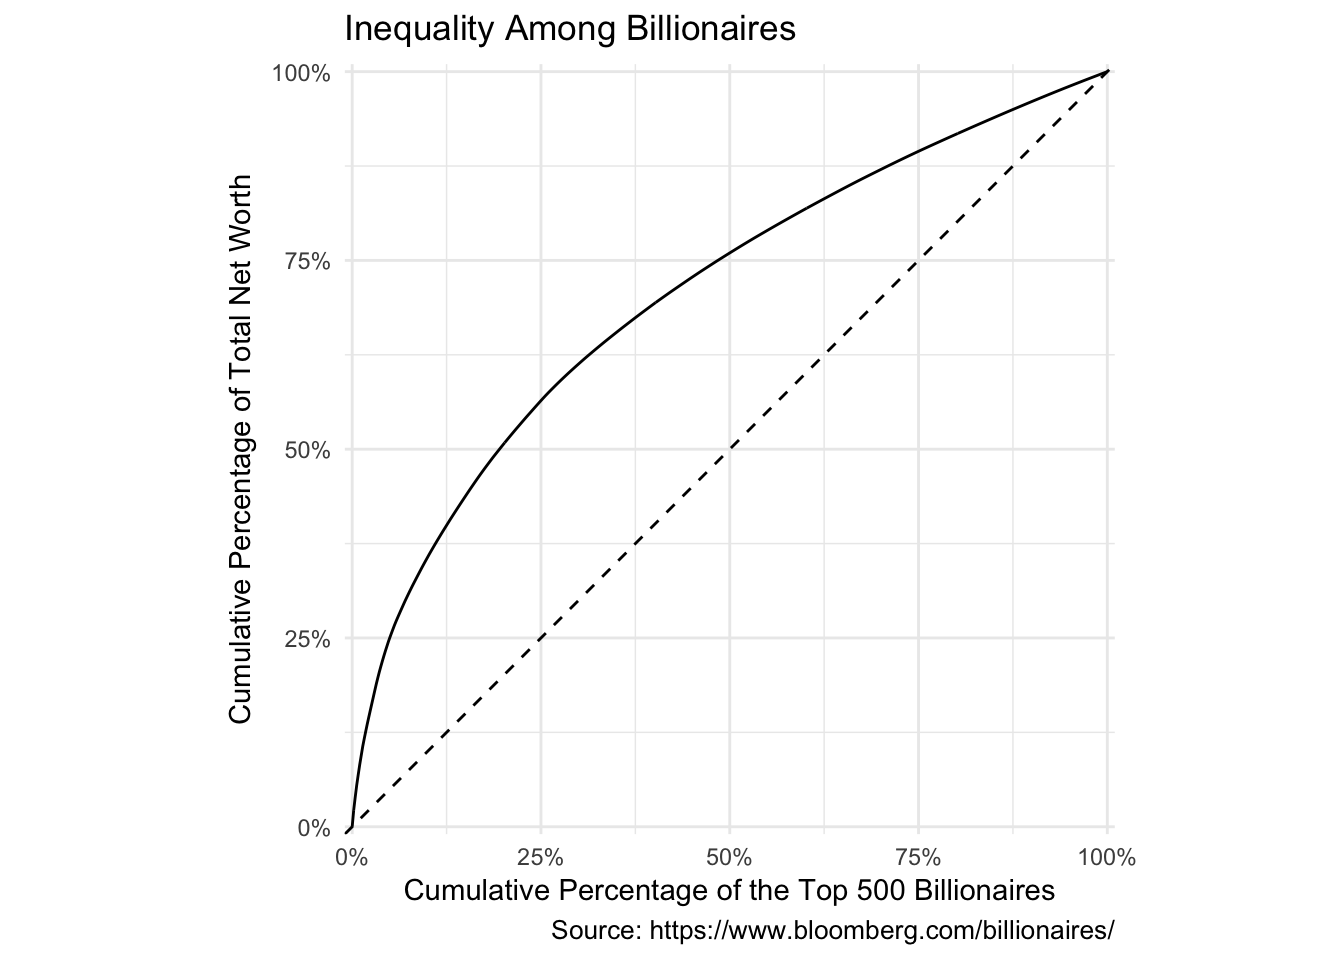
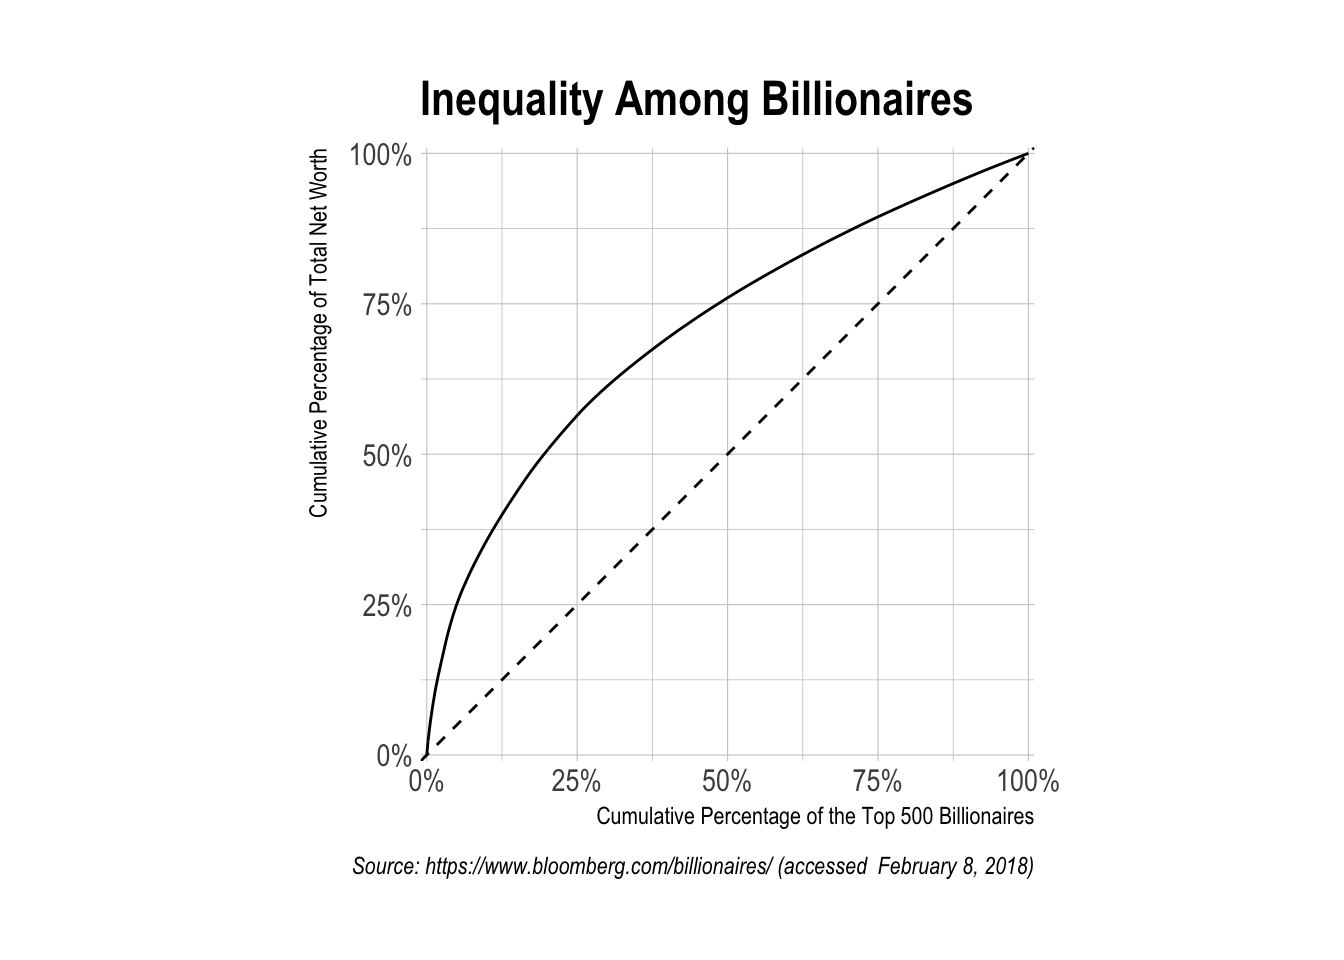
Update site

diff --git a/docs/index.html b/docs/index.html
@@ -5,7 +5,7 @@
 <meta charset="utf-8">
 <meta http-equiv="X-UA-Compatible" content="IE=edge">
 <meta name="viewport" content="width=device-width, initial-scale=1.0">
-<title>Plotting Lorenz Curve with the Blessing of ggplot2 • gglorenz</title>
+<title>Plotting Lorenz Curve with the Blessing of 'ggplot2' • gglorenz</title>
 <!-- jquery --><script src="https://code.jquery.com/jquery-3.1.0.min.js" integrity="sha384-nrOSfDHtoPMzJHjVTdCopGqIqeYETSXhZDFyniQ8ZHcVy08QesyHcnOUpMpqnmWq" crossorigin="anonymous"></script><!-- Bootstrap --><link href="https://maxcdn.bootstrapcdn.com/bootstrap/3.3.7/css/bootstrap.min.css" rel="stylesheet" integrity="sha384-BVYiiSIFeK1dGmJRAkycuHAHRg32OmUcww7on3RYdg4Va+PmSTsz/K68vbdEjh4u" crossorigin="anonymous">
 <script src="https://maxcdn.bootstrapcdn.com/bootstrap/3.3.7/js/bootstrap.min.js" integrity="sha384-Tc5IQib027qvyjSMfHjOMaLkfuWVxZxUPnCJA7l2mCWNIpG9mGCD8wGNIcPD7Txa" crossorigin="anonymous"></script><!-- Font Awesome icons --><link href="https://maxcdn.bootstrapcdn.com/font-awesome/4.6.3/css/font-awesome.min.css" rel="stylesheet" integrity="sha384-T8Gy5hrqNKT+hzMclPo118YTQO6cYprQmhrYwIiQ/3axmI1hQomh7Ud2hPOy8SP1" crossorigin="anonymous">
 <!-- pkgdown --><link href="pkgdown.css" rel="stylesheet">
@@ -86,13 +86,12 @@ devtools<span class="op">::</span><span class="kw"><a href="http://www.rdocument
 <a href="#example" class="anchor"></a>Example</h1>
 <p>Suppose you have a vector with each element representing the amount the stuff a person produced, and you are interested in knowing how much stuff are produced by the top x% of the people, then the <code><a href="http://www.rdocumentation.org/packages/gglorenz/topics/stat_lorenz">gglorenz::stat_lorenz(desc = TRUE)</a></code> would make a graph for you.</p>
 <div class="sourceCode"><pre class="sourceCode r"><code class="sourceCode r"><span class="kw">library</span>(tidyverse)
-<span class="co">#&gt; ── Attaching packages ──────────────────────────────────────── tidyverse 1.2.1 ──</span>
-<span class="co">#&gt; ✔ ggplot2 2.2.1.9000     ✔ purrr   0.2.4     </span>
+<span class="co">#&gt; ── Attaching packages ─────────────────────────────────────── tidyverse 1.2.1 ──</span>
+<span class="co">#&gt; ✔ ggplot2 2.2.1          ✔ purrr   0.2.4     </span>
 <span class="co">#&gt; ✔ tibble  1.4.2          ✔ dplyr   0.7.4     </span>
 <span class="co">#&gt; ✔ tidyr   0.7.2          ✔ stringr 1.2.0     </span>
 <span class="co">#&gt; ✔ readr   1.1.1.9000     ✔ forcats 0.2.0</span>
-<span class="co">#&gt; Warning: package 'tibble' was built under R version 3.4.3</span>
-<span class="co">#&gt; ── Conflicts ─────────────────────────────────────────── tidyverse_conflicts() ──</span>
+<span class="co">#&gt; ── Conflicts ────────────────────────────────────────── tidyverse_conflicts() ──</span>
 <span class="co">#&gt; ✖ dplyr::filter() masks stats::filter()</span>
 <span class="co">#&gt; ✖ dplyr::lag()    masks stats::lag()</span>
 <span class="kw">library</span>(gglorenz)
@@ -121,10 +120,11 @@ billionaires <span class="op">%&gt;%</span>
 <span class="st">    </span><span class="kw">theme_minimal</span>() <span class="op">+</span>
 <span class="st">    </span>hrbrthemes<span class="op">::</span><span class="kw"><a href="http://www.rdocumentation.org/packages/hrbrthemes/topics/scale_x_percent">scale_x_percent</a></span>() <span class="op">+</span>
 <span class="st">    </span>hrbrthemes<span class="op">::</span><span class="kw"><a href="http://www.rdocumentation.org/packages/hrbrthemes/topics/scale_x_percent">scale_y_percent</a></span>() <span class="op">+</span>
+<span class="st">    </span>hrbrthemes<span class="op">::</span><span class="kw"><a href="http://www.rdocumentation.org/packages/hrbrthemes/topics/theme_ipsum">theme_ipsum</a></span>() <span class="op">+</span>
 <span class="st">    </span><span class="kw">labs</span>(<span class="dt">x =</span> <span class="st">"Cumulative Percentage of the Top 500 Billionaires"</span>,
          <span class="dt">y =</span> <span class="st">"Cumulative Percentage of Total Net Worth"</span>,
          <span class="dt">title =</span> <span class="st">"Inequality Among Billionaires"</span>,
-         <span class="dt">caption =</span> <span class="st">"Source: https://www.bloomberg.com/billionaires/"</span>)</code></pre></div>
+         <span class="dt">caption =</span> <span class="st">"Source: https://www.bloomberg.com/billionaires/ (accessed  February 8, 2018)"</span>)</code></pre></div>
 <p><img src="reference/figures/README-unnamed-chunk-1-1.png" width="100%"></p>
 <div class="sourceCode"><pre class="sourceCode r"><code class="sourceCode r">
 billionaires <span class="op">%&gt;%</span>
@@ -136,10 +136,11 @@ billionaires <span class="op">%&gt;%</span>
 <span class="st">    </span><span class="kw">theme_minimal</span>() <span class="op">+</span>
 <span class="st">    </span>hrbrthemes<span class="op">::</span><span class="kw"><a href="http://www.rdocumentation.org/packages/hrbrthemes/topics/scale_x_percent">scale_x_percent</a></span>() <span class="op">+</span>
 <span class="st">    </span>hrbrthemes<span class="op">::</span><span class="kw"><a href="http://www.rdocumentation.org/packages/hrbrthemes/topics/scale_x_percent">scale_y_percent</a></span>() <span class="op">+</span>
+<span class="st">    </span>hrbrthemes<span class="op">::</span><span class="kw"><a href="http://www.rdocumentation.org/packages/hrbrthemes/topics/theme_ipsum">theme_ipsum</a></span>() <span class="op">+</span>
 <span class="st">    </span><span class="kw">labs</span>(<span class="dt">x =</span> <span class="st">"Cumulative Percentage of Billionaires"</span>,
          <span class="dt">y =</span> <span class="st">"Cumulative Percentage of Total Net Worth"</span>,
          <span class="dt">title =</span> <span class="st">"Real Estate is a Relatively Equal Field"</span>,
-         <span class="dt">caption =</span> <span class="st">"Source: https://www.bloomberg.com/billionaires/"</span>)</code></pre></div>
+         <span class="dt">caption =</span> <span class="st">"Source: https://www.bloomberg.com/billionaires/ (accessed  February 8, 2018)"</span>)</code></pre></div>
 <p><img src="reference/figures/README-unnamed-chunk-1-2.png" width="100%"></p>
 </div>
 </div>

diff --git a/docs/reference/stat_lorenz.html b/docs/reference/stat_lorenz.html
@@ -99,23 +99,23 @@
     <colgroup><col class="name" /><col class="desc" /></colgroup>
     <tr>
       <th>mapping</th>
-      <td><p>Set of aesthetic mappings created by <code>aes()</code> or
-<code>aes_()</code>. If specified and <code>inherit.aes = TRUE</code> (the
+      <td><p>Set of aesthetic mappings created by <code>aes</code> or
+<code>aes_</code>. If specified and <code>inherit.aes = TRUE</code> (the
 default), it is combined with the default mapping at the top level of the
 plot. You must supply <code>mapping</code> if there is no plot mapping.</p></td>
     </tr>
     <tr>
       <th>data</th>
       <td><p>The data to be displayed in this layer. There are three
-options:</p>
+   options:</p>
 <p>If <code>NULL</code>, the default, the data is inherited from the plot
-data as specified in the call to <code>ggplot()</code>.</p>
+   data as specified in the call to <code>ggplot</code>.</p>
 <p>A <code>data.frame</code>, or other object, will override the plot
-data. All objects will be fortified to produce a data frame. See
-<code>fortify()</code> for which variables will be created.</p>
+   data. All objects will be fortified to produce a data frame. See
+   <code>fortify</code> for which variables will be created.</p>
 <p>A <code>function</code> will be called with a single argument,
-the plot data. The return value must be a <code>data.frame.</code>, and
-will be used as the layer data.</p></td>
+   the plot data. The return value must be a <code>data.frame.</code>, and
+   will be used as the layer data.</p></td>
     </tr>
     <tr>
       <th>geom</th>
@@ -128,7 +128,7 @@ a call to a position adjustment function.</p></td>
     </tr>
     <tr>
       <th>...</th>
-      <td><p>other arguments passed on to <code>layer()</code>. These are
+      <td><p>other arguments passed on to <code>layer</code>. These are
 often aesthetics, used to set an aesthetic to a fixed value, like
 <code>color = "red"</code> or <code>size = 3</code>. They may also be parameters
 to the paired geom/stat.</p></td>
@@ -143,16 +143,14 @@ order.</p></td>
       <th>show.legend</th>
       <td><p>logical. Should this layer be included in the legends?
 <code>NA</code>, the default, includes if any aesthetics are mapped.
-<code>FALSE</code> never includes, and <code>TRUE</code> always includes.
-It can also be a named logical vector to finely select the aesthetics to
-display.</p></td>
+<code>FALSE</code> never includes, and <code>TRUE</code> always includes.</p></td>
     </tr>
     <tr>
       <th>inherit.aes</th>
       <td><p>If <code>FALSE</code>, overrides the default aesthetics,
 rather than combining with them. This is most useful for helper functions
 that define both data and aesthetics and shouldn't inherit behaviour from
-the default plot specification, e.g. <code>borders()</code>.</p></td>
+the default plot specification, e.g. <code>borders</code>.</p></td>
     </tr>
     </table>
     
@@ -165,12 +163,12 @@ the default plot specification, e.g. <code>borders()</code>.</p></td>
     <pre class="examples"><div class='input'><span class='fu'>library</span>(<span class='no'>gglorenz</span>)
 
 <span class='fu'>ggplot</span>(<span class='no'>billionaires</span>, <span class='fu'>aes</span>(<span class='no'>TNW</span>)) +
-    <span class='fu'>stat_lorenz</span>()</div><div class='img'><img src='stat_lorenz-1.png' alt='' width='700' height='432.632880098887' /></div><div class='input'>
+    <span class='fu'>stat_lorenz</span>()</div><div class='img'><img src='stat_lorenz-5.png' alt='' width='700' height='432.632880098887' /></div><div class='input'>
 <span class='fu'>ggplot</span>(<span class='no'>billionaires</span>, <span class='fu'>aes</span>(<span class='no'>TNW</span>)) +
     <span class='fu'>stat_lorenz</span>(<span class='kw'>desc</span> <span class='kw'>=</span> <span class='fl'>TRUE</span>) +
     <span class='fu'>coord_fixed</span>() +
     <span class='fu'>geom_abline</span>(<span class='kw'>linetype</span> <span class='kw'>=</span> <span class='st'>"dashed"</span>) +
-    <span class='fu'>theme_minimal</span>()</div><div class='img'><img src='stat_lorenz-2.png' alt='' width='700' height='432.632880098887' /></div></pre>
+    <span class='fu'>theme_minimal</span>()</div><div class='img'><img src='stat_lorenz-6.png' alt='' width='700' height='432.632880098887' /></div></pre>
   </div>
   <div class="col-md-3 hidden-xs hidden-sm" id="sidebar">
     <h2>Contents</h2>

diff --git a/docs/reference/stat_lorenz_generalized.html b/docs/reference/stat_lorenz_generalized.html
@@ -98,23 +98,23 @@
     <colgroup><col class="name" /><col class="desc" /></colgroup>
     <tr>
       <th>mapping</th>
-      <td><p>Set of aesthetic mappings created by <code>aes()</code> or
-<code>aes_()</code>. If specified and <code>inherit.aes = TRUE</code> (the
+      <td><p>Set of aesthetic mappings created by <code>aes</code> or
+<code>aes_</code>. If specified and <code>inherit.aes = TRUE</code> (the
 default), it is combined with the default mapping at the top level of the
 plot. You must supply <code>mapping</code> if there is no plot mapping.</p></td>
     </tr>
     <tr>
       <th>data</th>
       <td><p>The data to be displayed in this layer. There are three
-options:</p>
+   options:</p>
 <p>If <code>NULL</code>, the default, the data is inherited from the plot
-data as specified in the call to <code>ggplot()</code>.</p>
+   data as specified in the call to <code>ggplot</code>.</p>
 <p>A <code>data.frame</code>, or other object, will override the plot
-data. All objects will be fortified to produce a data frame. See
-<code>fortify()</code> for which variables will be created.</p>
+   data. All objects will be fortified to produce a data frame. See
+   <code>fortify</code> for which variables will be created.</p>
 <p>A <code>function</code> will be called with a single argument,
-the plot data. The return value must be a <code>data.frame.</code>, and
-will be used as the layer data.</p></td>
+   the plot data. The return value must be a <code>data.frame.</code>, and
+   will be used as the layer data.</p></td>
     </tr>
     <tr>
       <th>geom</th>
@@ -127,7 +127,7 @@ a call to a position adjustment function.</p></td>
     </tr>
     <tr>
       <th>...</th>
-      <td><p>other arguments passed on to <code>layer()</code>. These are
+      <td><p>other arguments passed on to <code>layer</code>. These are
 often aesthetics, used to set an aesthetic to a fixed value, like
 <code>color = "red"</code> or <code>size = 3</code>. They may also be parameters
 to the paired geom/stat.</p></td>
@@ -136,16 +136,14 @@ to the paired geom/stat.</p></td>
       <th>show.legend</th>
       <td><p>logical. Should this layer be included in the legends?
 <code>NA</code>, the default, includes if any aesthetics are mapped.
-<code>FALSE</code> never includes, and <code>TRUE</code> always includes.
-It can also be a named logical vector to finely select the aesthetics to
-display.</p></td>
+<code>FALSE</code> never includes, and <code>TRUE</code> always includes.</p></td>
     </tr>
     <tr>
       <th>inherit.aes</th>
       <td><p>If <code>FALSE</code>, overrides the default aesthetics,
 rather than combining with them. This is most useful for helper functions
 that define both data and aesthetics and shouldn't inherit behaviour from
-the default plot specification, e.g. <code>borders()</code>.</p></td>
+the default plot specification, e.g. <code>borders</code>.</p></td>
     </tr>
     </table>
     
@@ -158,7 +156,7 @@ the default plot specification, e.g. <code>borders()</code>.</p></td>
     <pre class="examples"><div class='input'><span class='fu'>library</span>(<span class='no'>gglorenz</span>)
 
 <span class='fu'>ggplot</span>(<span class='no'>billionaires</span>, <span class='fu'>aes</span>(<span class='no'>TNW</span>)) +
-    <span class='fu'>stat_lorenz_generalized</span>()</div><div class='img'><img src='stat_lorenz_generalized-1.png' alt='' width='700' height='432.632880098887' /></div></pre>
+    <span class='fu'>stat_lorenz_generalized</span>()</div><div class='img'><img src='stat_lorenz_generalized-3.png' alt='' width='700' height='432.632880098887' /></div></pre>
   </div>
   <div class="col-md-3 hidden-xs hidden-sm" id="sidebar">
     <h2>Contents</h2>

diff --git a/README.md b/README.md
@@ -25,13 +25,12 @@ Suppose you have a vector with each element representing the amount the stuff a 
 
 ``` r
 library(tidyverse)
-#> ── Attaching packages ──────────────────────────────────────── tidyverse 1.2.1 ──
-#> ✔ ggplot2 2.2.1.9000     ✔ purrr   0.2.4     
+#> ── Attaching packages ─────────────────────────────────────── tidyverse 1.2.1 ──
+#> ✔ ggplot2 2.2.1          ✔ purrr   0.2.4     
 #> ✔ tibble  1.4.2          ✔ dplyr   0.7.4     
 #> ✔ tidyr   0.7.2          ✔ stringr 1.2.0     
 #> ✔ readr   1.1.1.9000     ✔ forcats 0.2.0
-#> Warning: package 'tibble' was built under R version 3.4.3
-#> ── Conflicts ─────────────────────────────────────────── tidyverse_conflicts() ──
+#> ── Conflicts ────────────────────────────────────────── tidyverse_conflicts() ──
 #> ✖ dplyr::filter() masks stats::filter()
 #> ✖ dplyr::lag()    masks stats::lag()
 library(gglorenz)
@@ -60,10 +59,11 @@ billionaires %>%
     theme_minimal() +
     hrbrthemes::scale_x_percent() +
     hrbrthemes::scale_y_percent() +
+    hrbrthemes::theme_ipsum() +
     labs(x = "Cumulative Percentage of the Top 500 Billionaires",
          y = "Cumulative Percentage of Total Net Worth",
          title = "Inequality Among Billionaires",
-         caption = "Source: https://www.bloomberg.com/billionaires/")
+         caption = "Source: https://www.bloomberg.com/billionaires/ (accessed  February 8, 2018)")
 ```
 
 <img src="man/figures/README-unnamed-chunk-1-1.png" width="100%" />
@@ -79,10 +79,11 @@ billionaires %>%
     theme_minimal() +
     hrbrthemes::scale_x_percent() +
     hrbrthemes::scale_y_percent() +
+    hrbrthemes::theme_ipsum() +
     labs(x = "Cumulative Percentage of Billionaires",
          y = "Cumulative Percentage of Total Net Worth",
          title = "Real Estate is a Relatively Equal Field",
-         caption = "Source: https://www.bloomberg.com/billionaires/")
+         caption = "Source: https://www.bloomberg.com/billionaires/ (accessed  February 8, 2018)")
 ```
 
 <img src="man/figures/README-unnamed-chunk-1-2.png" width="100%" />
